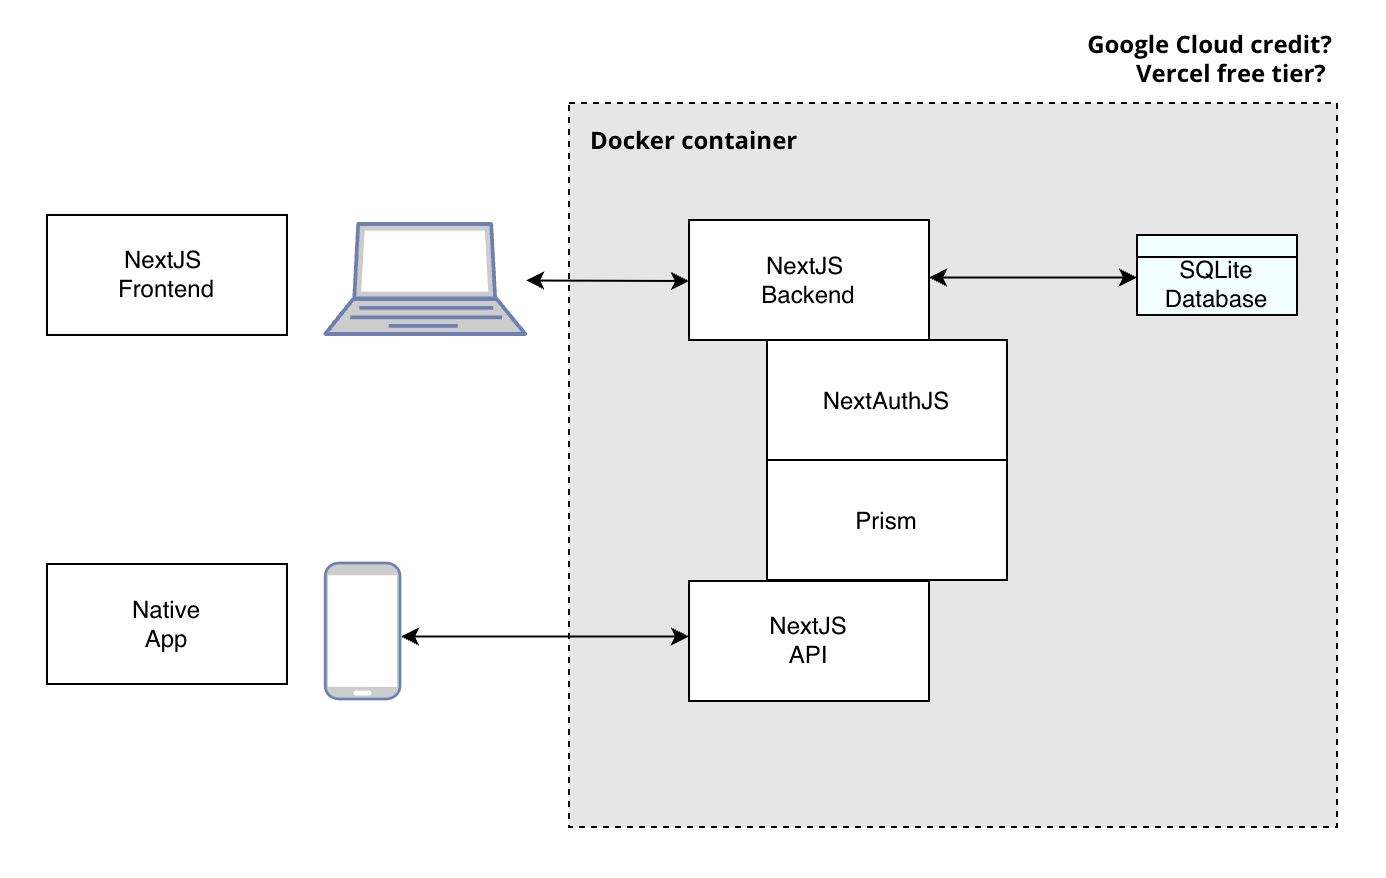
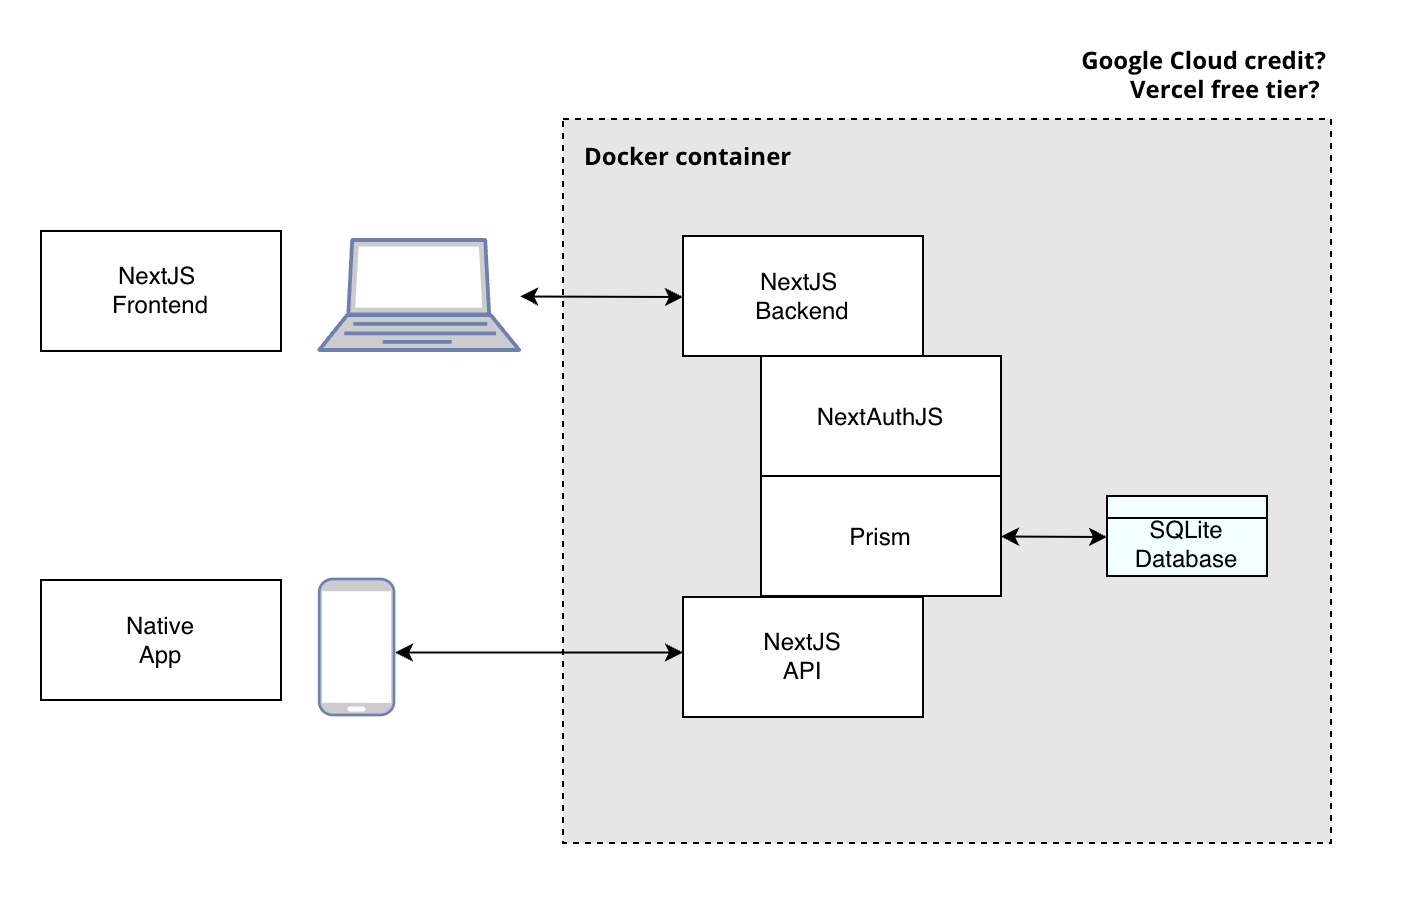
Small updates

diff --git a/components/main-nav.tsx b/components/main-nav.tsx
@@ -34,28 +34,38 @@ export function MainNav() {
         <NavigationMenuList>
           <NavigationMenuItem>
             <NavigationMenuTrigger className="px-2">
-              Server Side
+              Noter
             </NavigationMenuTrigger>
             <NavigationMenuContent>
               <ul className="grid gap-3 p-6 md:w-[400px] lg:w-[500px] lg:grid-cols-[.75fr_1fr]">
-                <ListItem href="/server-example" title="RSC Example">
-                  Protecting React Server Component.
+                <ListItem href="/server-example" title="Alle noter">
+                  Viser alle noter
                 </ListItem>
-                <ListItem href="/middleware-example" title="Middleware Example">
-                  Using Middleware to protect pages & APIs.
+                <ListItem href="/middleware-example" title="Ny note">
+                  Opretter ny note
                 </ListItem>
-                <ListItem href="/api-example" title="Route Handler Example">
-                  Getting the session inside an API Route.
+                <ListItem href="/api-example" title="API">
+                  Viser API'ens dokumentation
                 </ListItem>
               </ul>
             </NavigationMenuContent>
           </NavigationMenuItem>
           <NavigationMenuItem>
             <NavigationMenuLink
-              href="/client-example"
+              href="/db-demo"
               className={navigationMenuTriggerStyle()}
             >
-              Client Side
+              Database
+            </NavigationMenuLink>
+          </NavigationMenuItem>
+          <NavigationMenuItem>
+            <NavigationMenuLink
+              href="
+              https://github.com/andracs/SecureNote3
+              "
+              className={navigationMenuTriggerStyle()}
+            >
+              🧑💻 Koden på Github
             </NavigationMenuLink>
           </NavigationMenuItem>
         </NavigationMenuList>

diff --git a/app/api/notes/[slug]/route.ts b/app/api/notes/[slug]/route.ts
@@ -1,0 +1,53 @@
+// CREATE not implemented
+export async function CREATE(request: Request) {
+   return new Response("Not implemented", { status: 501 });
+}
+
+
+// GET endpoint to fetch notes
+export async function GET(request: Request) {
+    // For example, fetch data from your DB here
+    const notes = [
+      { id: 1, note: 'Køb' },
+      { id: 2, note: 'Sælg' }
+    ];
+    return new Response(JSON.stringify(notes), {
+      status: 200,
+      headers: { 'Content-Type': 'application/json' }
+    });
+  }
+  
+  // PUT endpoint to update a note
+export async function PUT(request: Request) {
+    try {
+      const body = await request.json();
+      console.log("Body --> " + body);
+      const { id, note } = body;
+      // Update the note in your DB here
+      const updatedNote = { id, note };
+  
+      return new Response(JSON.stringify(updatedNote), {
+        status: 200,
+        headers: { 'Content-Type': 'application/json' }
+      });
+    } catch (e) {
+      return new Response(e.message, { status: 400 });
+    }
+  }
+  
+  // DELETE endpoint to delete a note
+  export async function DELETE(request: Request) {
+    try {
+      const body = await request.json();
+      console.log("Body --> " + body);
+      const { id } = body;
+      // Delete the note from your DB here
+  
+      return new Response(JSON.stringify({ message: `Note with id ${id} deleted` }), {
+        status: 200,
+        headers: { 'Content-Type': 'application/json' }
+      });
+    } catch (e) {
+      return new Response(e.message, { status: 400 });
+    }
+  }

diff --git a/app/db-demo/page.tsx b/app/db-demo/page.tsx
@@ -2,15 +2,26 @@ import prisma from '@/lib/prisma'
 
 export default async function Home() {
   const users = await prisma.user.findMany();
+  const posts = await prisma.post.findMany();
   return (
-    <div className="min-h-screen bg-gray-50 flex flex-col items-center justify-center -mt-16">
+    <div className="min-h-screen bg-gray-50 flex flex-col items-start p-8">
       <h1 className="text-4xl font-bold mb-8 font-[family-name:var(--font-geist-sans)] text-[#333333]">
-        Superblog
+        Elementer i databasen
       </h1>
-      <ol className="list-decimal list-inside font-[family-name:var(--font-geist-sans)]">
+      <h2 className="text-xl font-bold mb-8 font-[family-name:var(--font-geist-sans)] text-[#333333]">Users</h2>
+      <ol className="font-[family-name:var(--font-geist-sans)]">
         {users.map((user) => (
           <li key={user.id} className="mb-2">
-            {user.name}
+            {user.name} - {user.email}
+          </li>
+        ))}
+      </ol>
+      <hr className="my-8 w-full border-t border-[#e2e8f0]" />
+      <h2 className="text-xl font-bold mb-8 font-[family-name:var(--font-geist-sans)] text-[#333333]">Posts</h2>
+      <ol className="list-none font-[family-name:var(--font-geist-sans)]">
+        {posts.map((post) => (
+          <li key={post.id} className="mb-2">
+            {post.title} - {post.content} by {post.authorId}
           </li>
         ))}
       </ol>

diff --git a/app/page.tsx b/app/page.tsx
@@ -6,33 +6,7 @@ export default async function Index() {
 
   return (
     <div className="flex flex-col gap-6">
-      <h1 className="text-3xl font-bold">NextAuth.js Example</h1>
-      <div>
-        This is an example site to demonstrate how to use{" "}
-        <CustomLink href="https://nextjs.authjs.dev">NextAuth.js</CustomLink>{" "}
-        for authentication. Check out the{" "}
-        <CustomLink href="/server-example" className="underline">
-          Server
-        </CustomLink>{" "}
-        and the{" "}
-        <CustomLink href="/client-example" className="underline">
-          Client
-        </CustomLink>{" "}
-        examples to see how to secure pages and get session data.
-      </div>
-      <div>
-        WebAuthn users are reset on every deploy, don't expect your test user(s)
-        to still be available after a few days. It is designed to only
-        demonstrate registration, login, and logout briefly.
-      </div>
-      <div className="flex flex-col rounded-md bg-gray-100">
-        <div className="rounded-t-md bg-gray-200 p-4 font-bold">
-          Current Session
-        </div>
-        <pre className="whitespace-pre-wrap break-all px-4 py-6">
-          {JSON.stringify(session, null, 2)}
-        </pre>
-      </div>
+      <h1 className="text-6xl font-bold text-center mt-10">🔐🗒🤓 Securenote 3</h1>
     </div>
   )
 }

diff --git a/app/api/notes/route.ts b/app/api/notes/route.ts
@@ -1,0 +1,43 @@
+
+// POST endpoint to create a new note
+export async function POST(request: Request) {
+  // Parse the request body
+  try {
+    const body = await request.json();
+    console.log("Body --> " + body);
+    const { note } = body;
+    const newNote = { id: Date.now(), note };
+
+    return new Response(JSON.stringify(newNote), {
+      status: 201,
+      headers: { 'Content-Type': 'application/json' }
+    });
+  } catch (e) {
+    return new Response(e.message, { status: 400 });
+  }
+
+  // e.g. Insert new user into your DB
+}
+
+// GET endpoint to fetch notes
+export async function GET(request: Request) {
+  // For example, fetch data from your DB here
+  const notes = [
+    { id: 1, note: 'Køb' },
+    { id: 2, note: 'Sælg' }
+  ];
+  return new Response(JSON.stringify(notes), {
+    status: 200,
+    headers: { 'Content-Type': 'application/json' }
+  });
+}
+
+// PUT not implemented
+export async function PUT(request: Request) {
+  return new Response("Not implemented", { status: 501 });
+} 
+
+// DELETE not implemented
+export async function DELETE(request: Request) {
+  return new Response("Not implemented", { status: 501 });
+}

diff --git a/README.md b/README.md
@@ -1,6 +1,19 @@
-# Securenote 3
+# 🔐🗒🤓 Securenote 3 🔐🗒🤓
 
 An experimental implementation of Securenote in NextJS. 
+
+## Funktionalitets TODO
+- Endpoints skal kobles på DB
+- API skal kobles på frontend
+- Auth skal sættes på de relevente routes
+- Unit tests
+- Deploy
+- Avancerede tests
+- CD/CI & DevOps
+
+## Sikkerheds TODO
+- ... ? 
+- ... ?
 
 ## Development process
 
@@ -29,3 +42,60 @@ So I am manually bootstrapping the project instead.
 ![alt text](docs/Architecture.png)
 
 Here is the current draft for the architecture. ([Link](https://online.visual-paradigm.com/app/diagrams/#diagram:proj=0&id=3&type=ArchiMateDiagram&width=11&height=8.5&unit=inch))
+
+## Noter
+Jeg har delvist genereret, delvist kodet projektet. Disse trin har jeg været igennem:
+
+➡ Bootstrapper Next Auth med et eksempelprojekt som beskrevet på https://next-auth.js.org/getting-started/example 
+
+````
+
+git clone https://github.com/nextauthjs/next-auth-example.git\
+cd next-auth-example\
+cp .env.local.example .env.local\
+npm install
+
+````
+
+➡ Jeg laver en secret til brug i env.local for prisma 
+````
+openssl rand -hex 32
+````
+
+➡ Sådan kan jeg åbenbart køre en NextJS app i dev mode
+````
+npm run dev
+````
+
+➡ Så tilføjer jeg Prisma som ORM som beskrevet i tutorialen https://www.prisma.io/docs/guides/nextjs
+
+````
+npm install prisma --save-dev\
+npm install tsx --save-dev\
+npm install @prisma/extension-accelerate
+npm install sqlite3
+npx prisma init --datasource-provider sqlite
+````
+
+➡ Jeg begynder at bygge modellen efter tutorialen 
+````
+npx prisma migrate dev --name init
+npx prisma db seed
+npx prisma studio
+npm run dev
+mkdir -p lib && touch lib/prisma.ts
+npm run dev
+````
+
+➡ Jeg begynder at bygge modellen efter tutorialen
+
+Når jeg bygger API'en med [Building the API part](https://nextjs.org/blog/building-apis-with-nextjs), så hjælper Postman med testing. Her kan jeg bl.a. sende POST og DELETE requests. 
+
+![Postman](docs/PostmanToTheRescue.png)
+
+## API Endpoints Documentation
+
+- **GET /api/notes** --> Fetch all notes.
+- **POST /api/notes** --> Create a new note.
+- **PUT /api/notes/[id]** --> Update an existing note.
+- **DELETE /api/notes/[id]** --> Delete an existing note.
